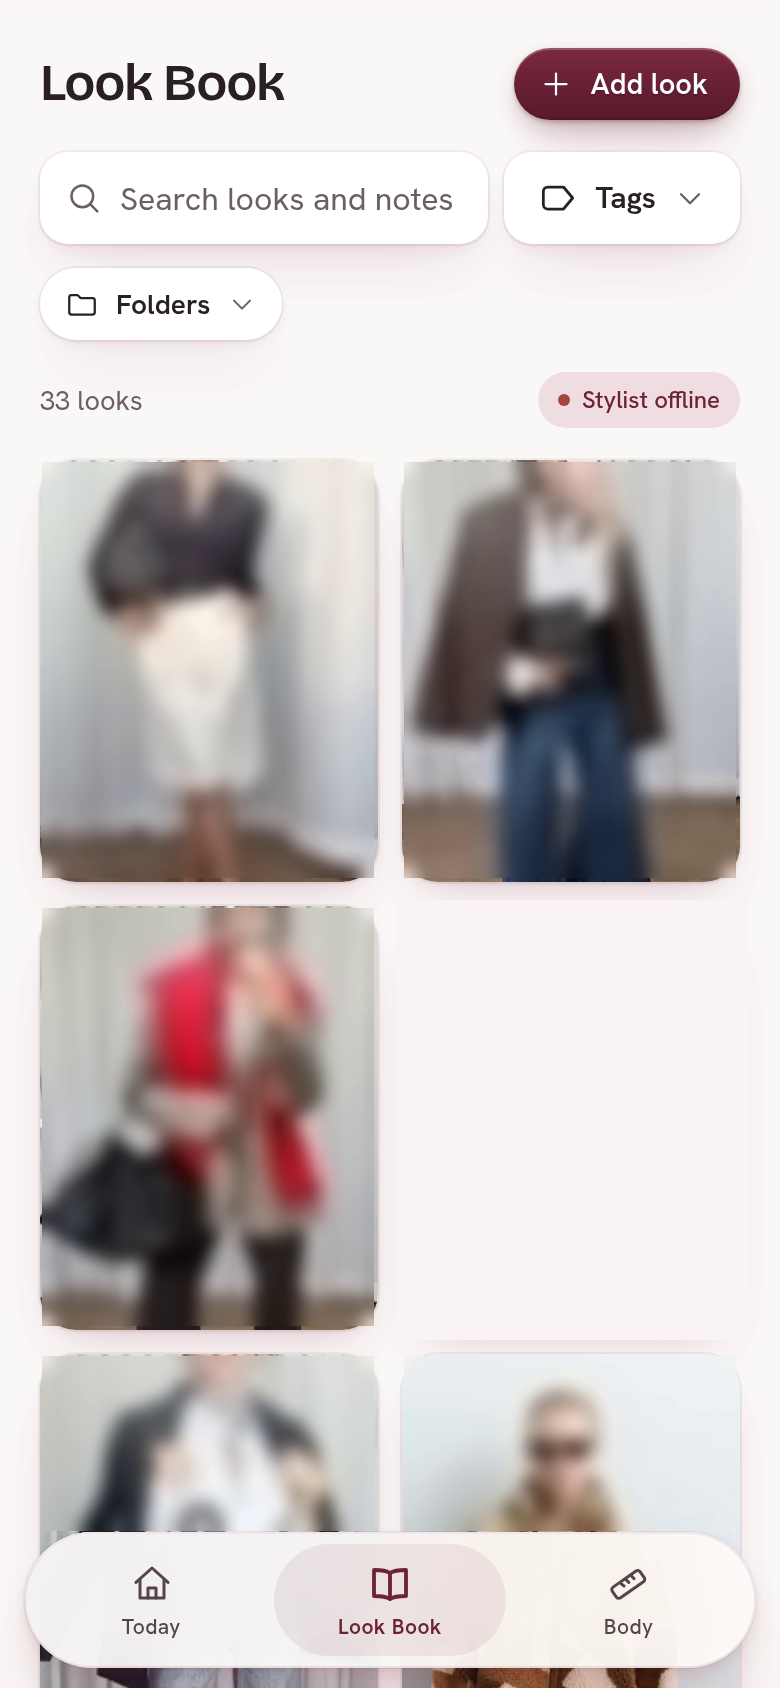
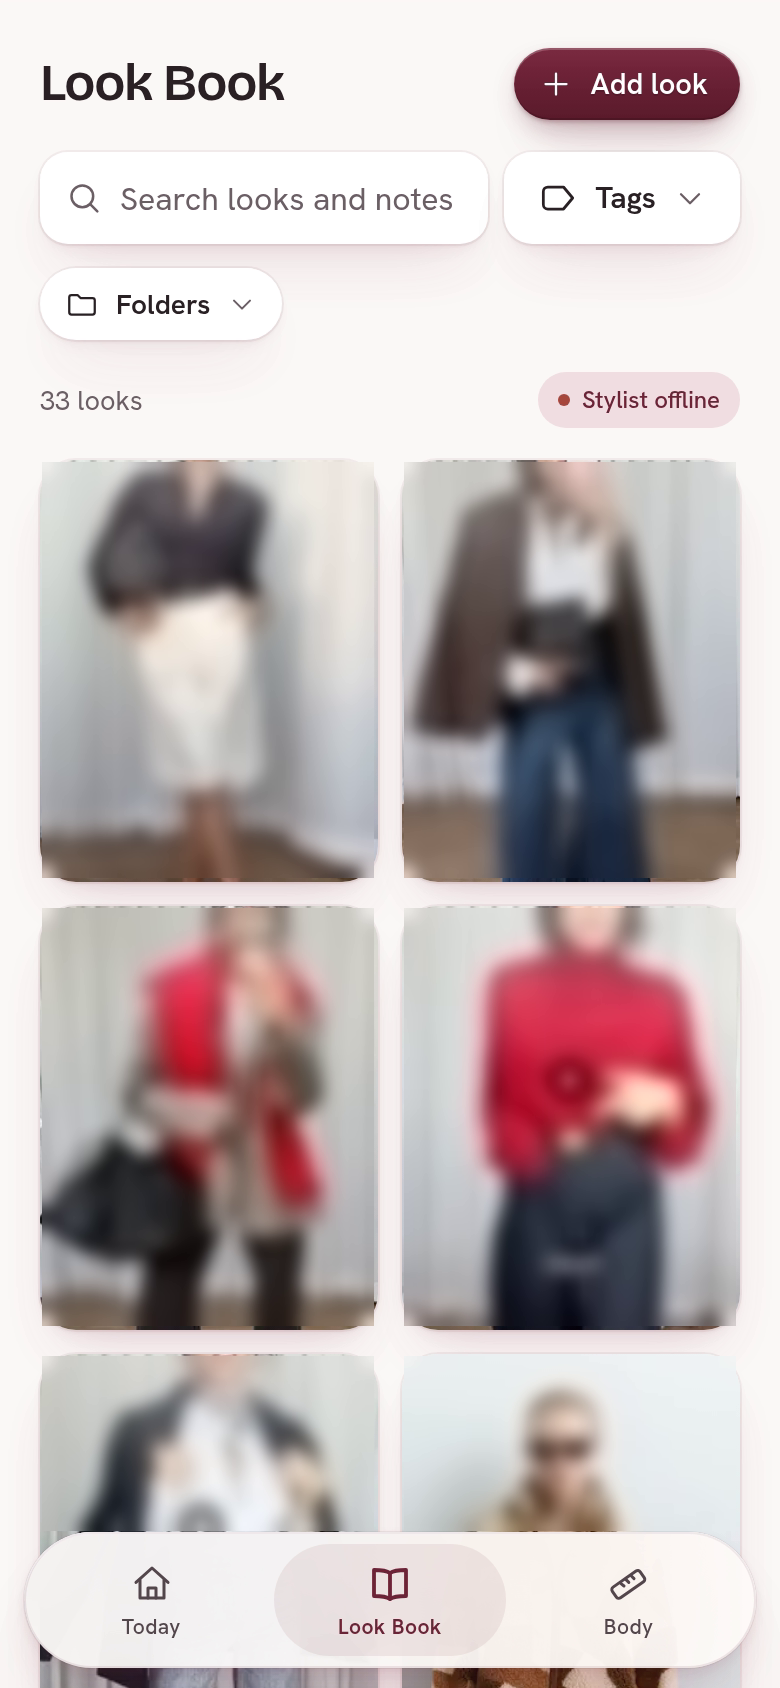
Add files via upload

Changed region(s): [[0.4923, 0.5237, 0.9538, 0.8009]]

diff --git a/README.md b/README.md
@@ -17,9 +17,9 @@ Muse is a stylist and wardrobe app that I am building for my phone. It brings to
 
 The Today screen is where it starts: the weather, a place for today's look, and three quick actions.
 
-<p align="center"><img src="today-light.png" alt="Today: the weather, today's look and quick actions" width="16%"> <img src="today-dark.png" alt="Today screen in dark mode" width="16%"> <img src="lookbook-light.png" alt="Look Book: saved inspiration with search, tags and folders" width="16%"> <img src="menu-light.png" alt="Long press on a look: Ask the stylist or Delete" width="16%"> <img src="detail-light.png" alt="A saved look with the stylist's note" width="16%"> <img src="body-light.png" alt="Body: measurements, shown with sample values" width="16%"></p>
+<p align="center"><img src="today-light.png" alt="Today: the weather, today's look and quick actions" width="19%"> <img src="today-dark.png" alt="Today screen in dark mode" width="19%"> <img src="lookbook-light.png" alt="Look Book: saved inspiration with search, tags and folders" width="19%"> <img src="menu-light.png" alt="Long press on a look: Ask the stylist or Delete" width="19%"> <img src="body-light.png" alt="Body: measurements, shown with sample values" width="19%"></p>
 
-From the left: Today, Today in dark mode, the Look Book, the menu that opens when I long press a look, a saved look with the stylist's note, and Body.
+From the left: Today, Today in dark mode, the Look Book, the menu that opens when I long press a look, and Body.
 
 ## How I built it
 
